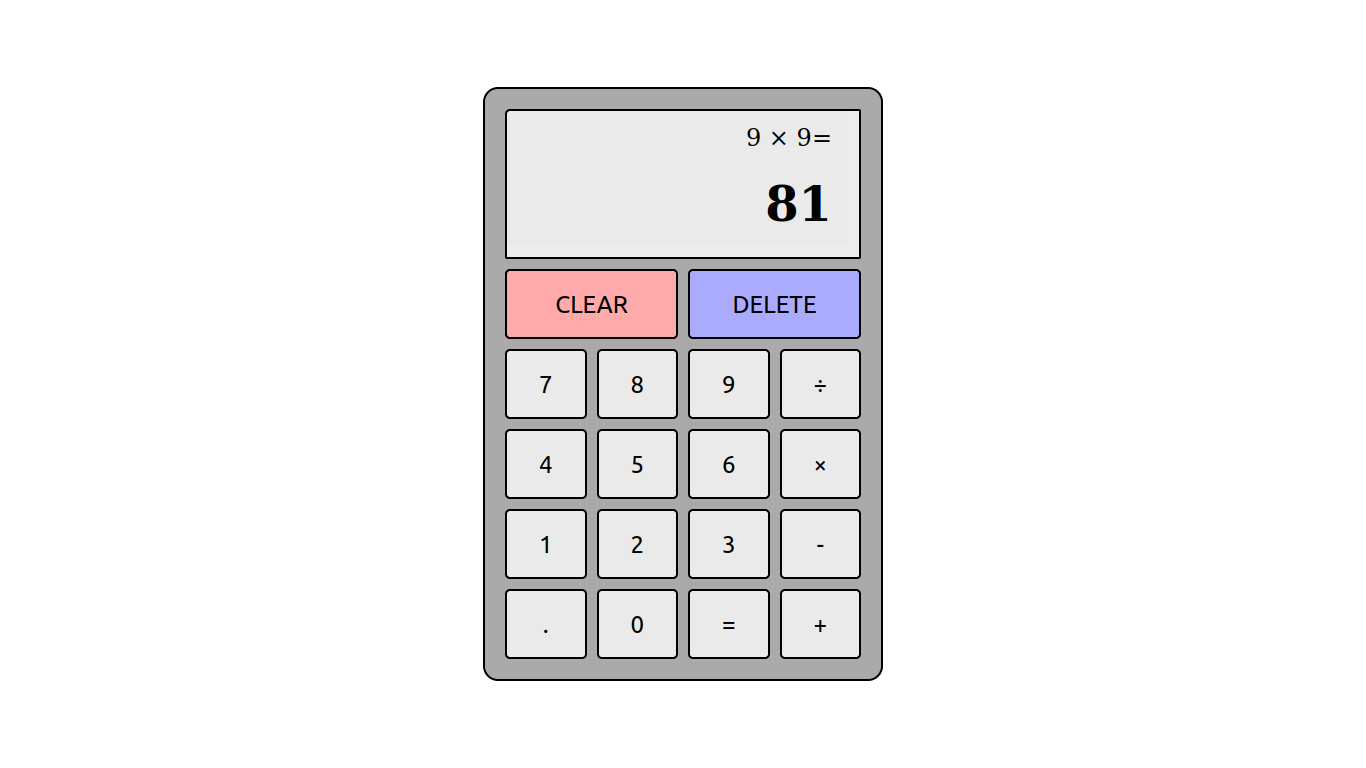
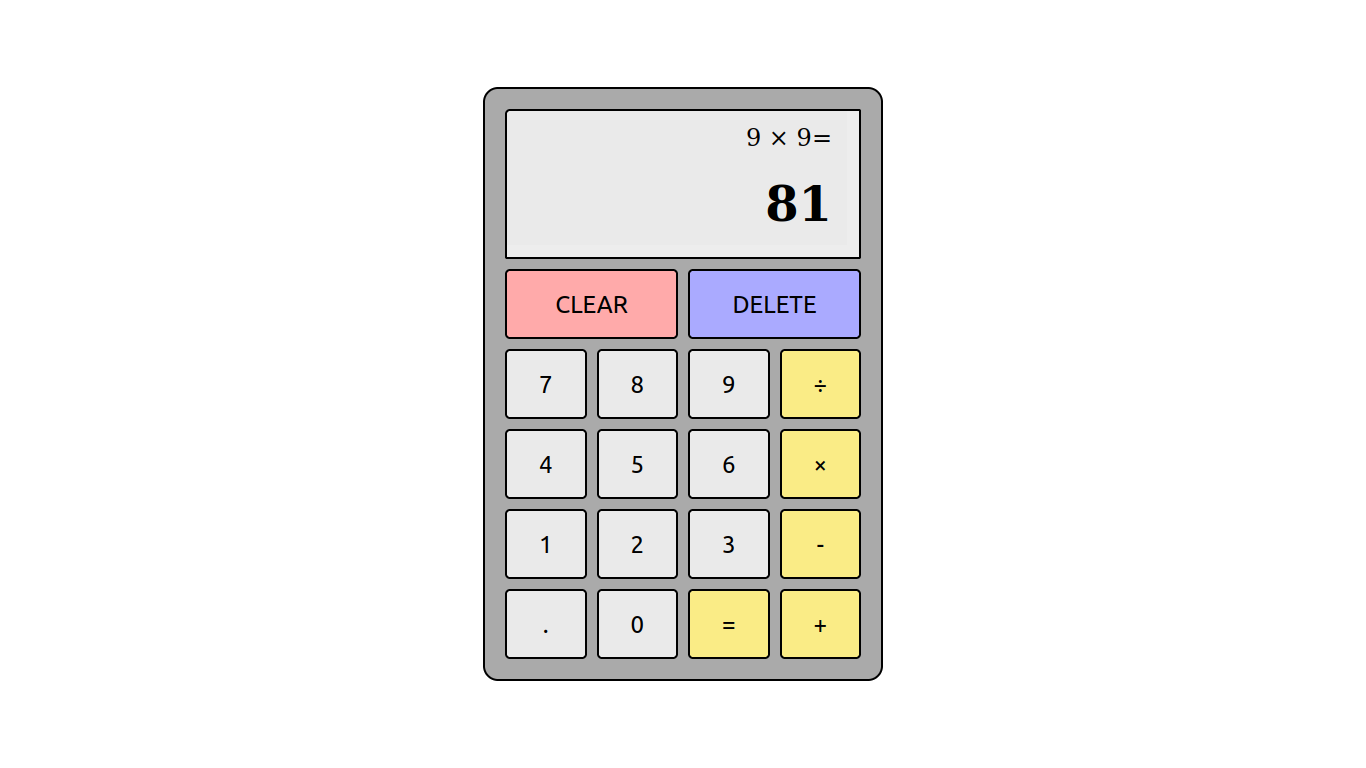
Calculator UI ONLY grid practice

Changed region(s): [[0.4919, 0.4375, 0.6457, 0.875]]

diff --git a/style.css b/style.css
@@ -61,3 +61,10 @@ body{
 #g3:hover{
     background-color: #9999ee;
 }
+#g18,#g19,#g15,#g11,#g7{
+    background-color: #faec86;
+}
+
+#g18:hover,#g19:hover,#g15:hover,#g11:hover,#g7:hover{
+    background-color: #f5e468;
+}
